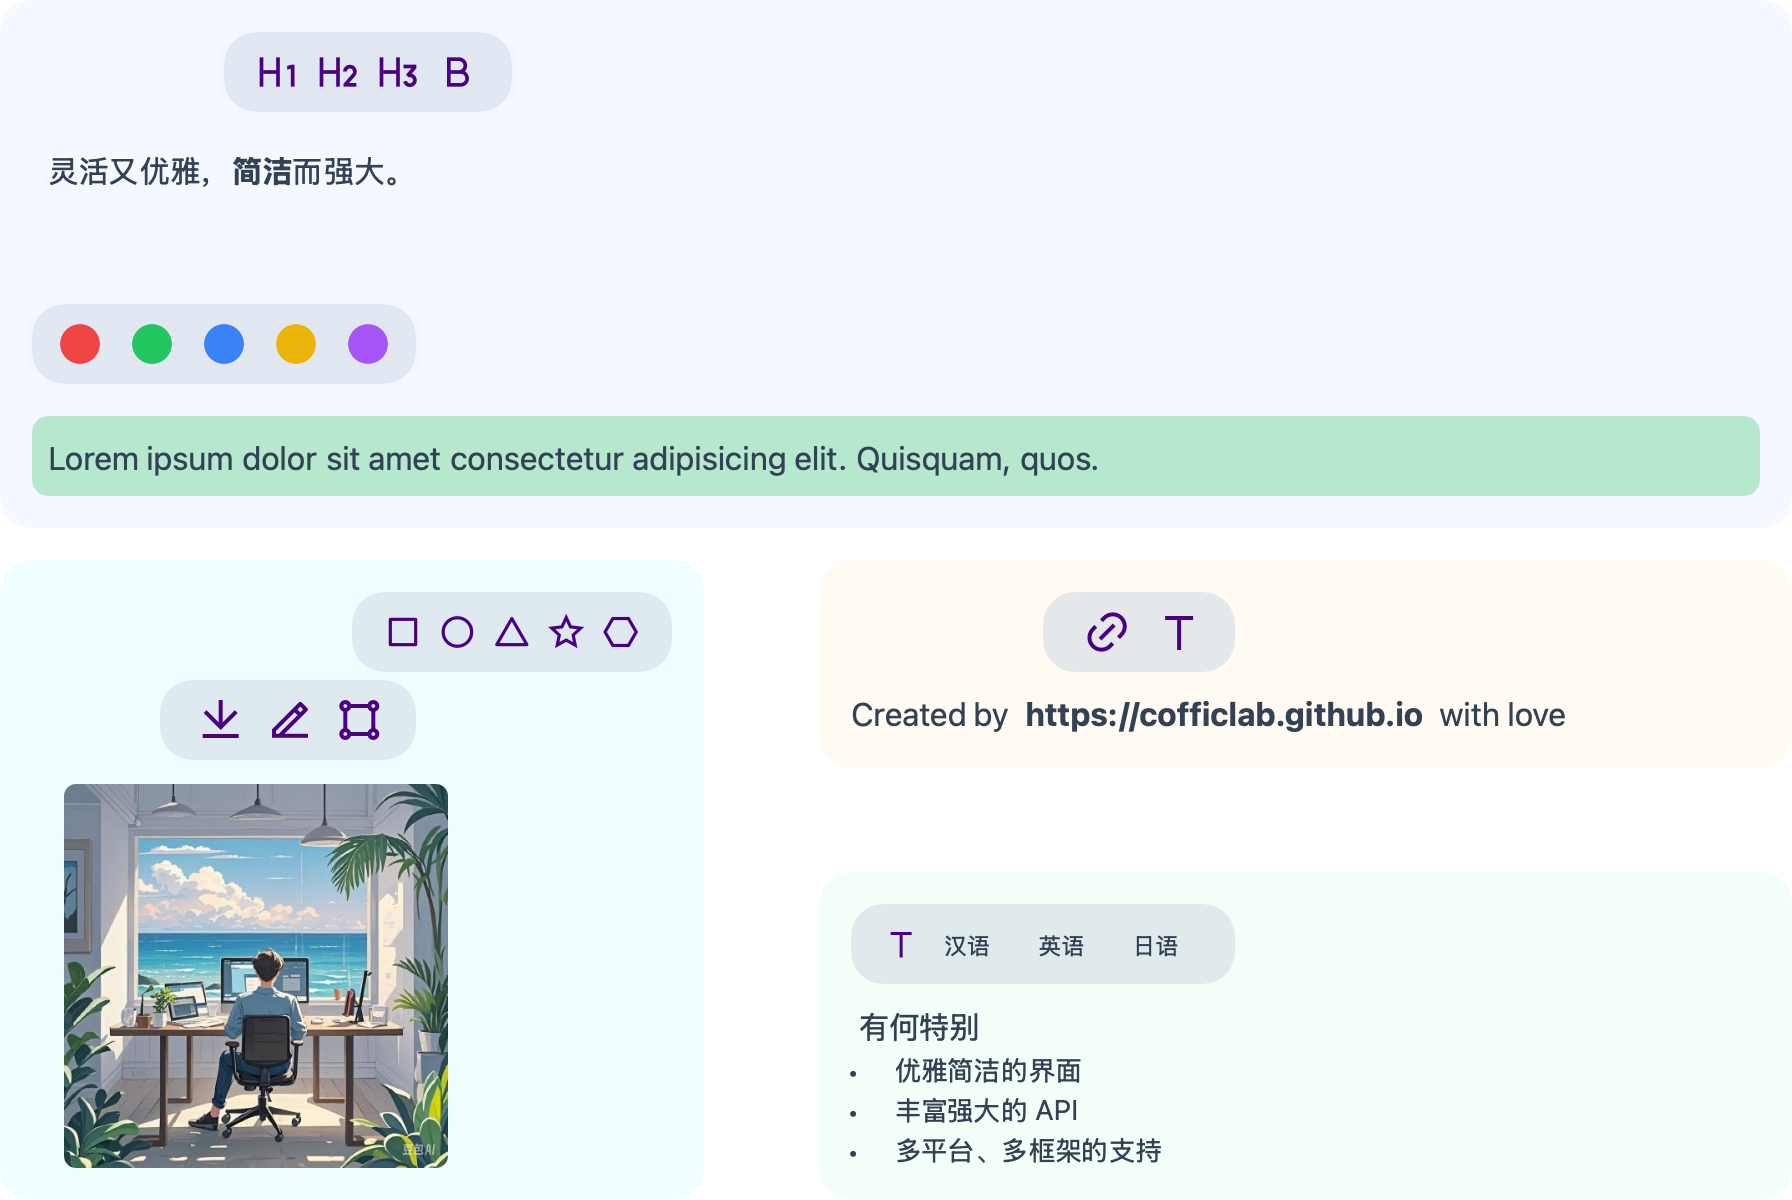
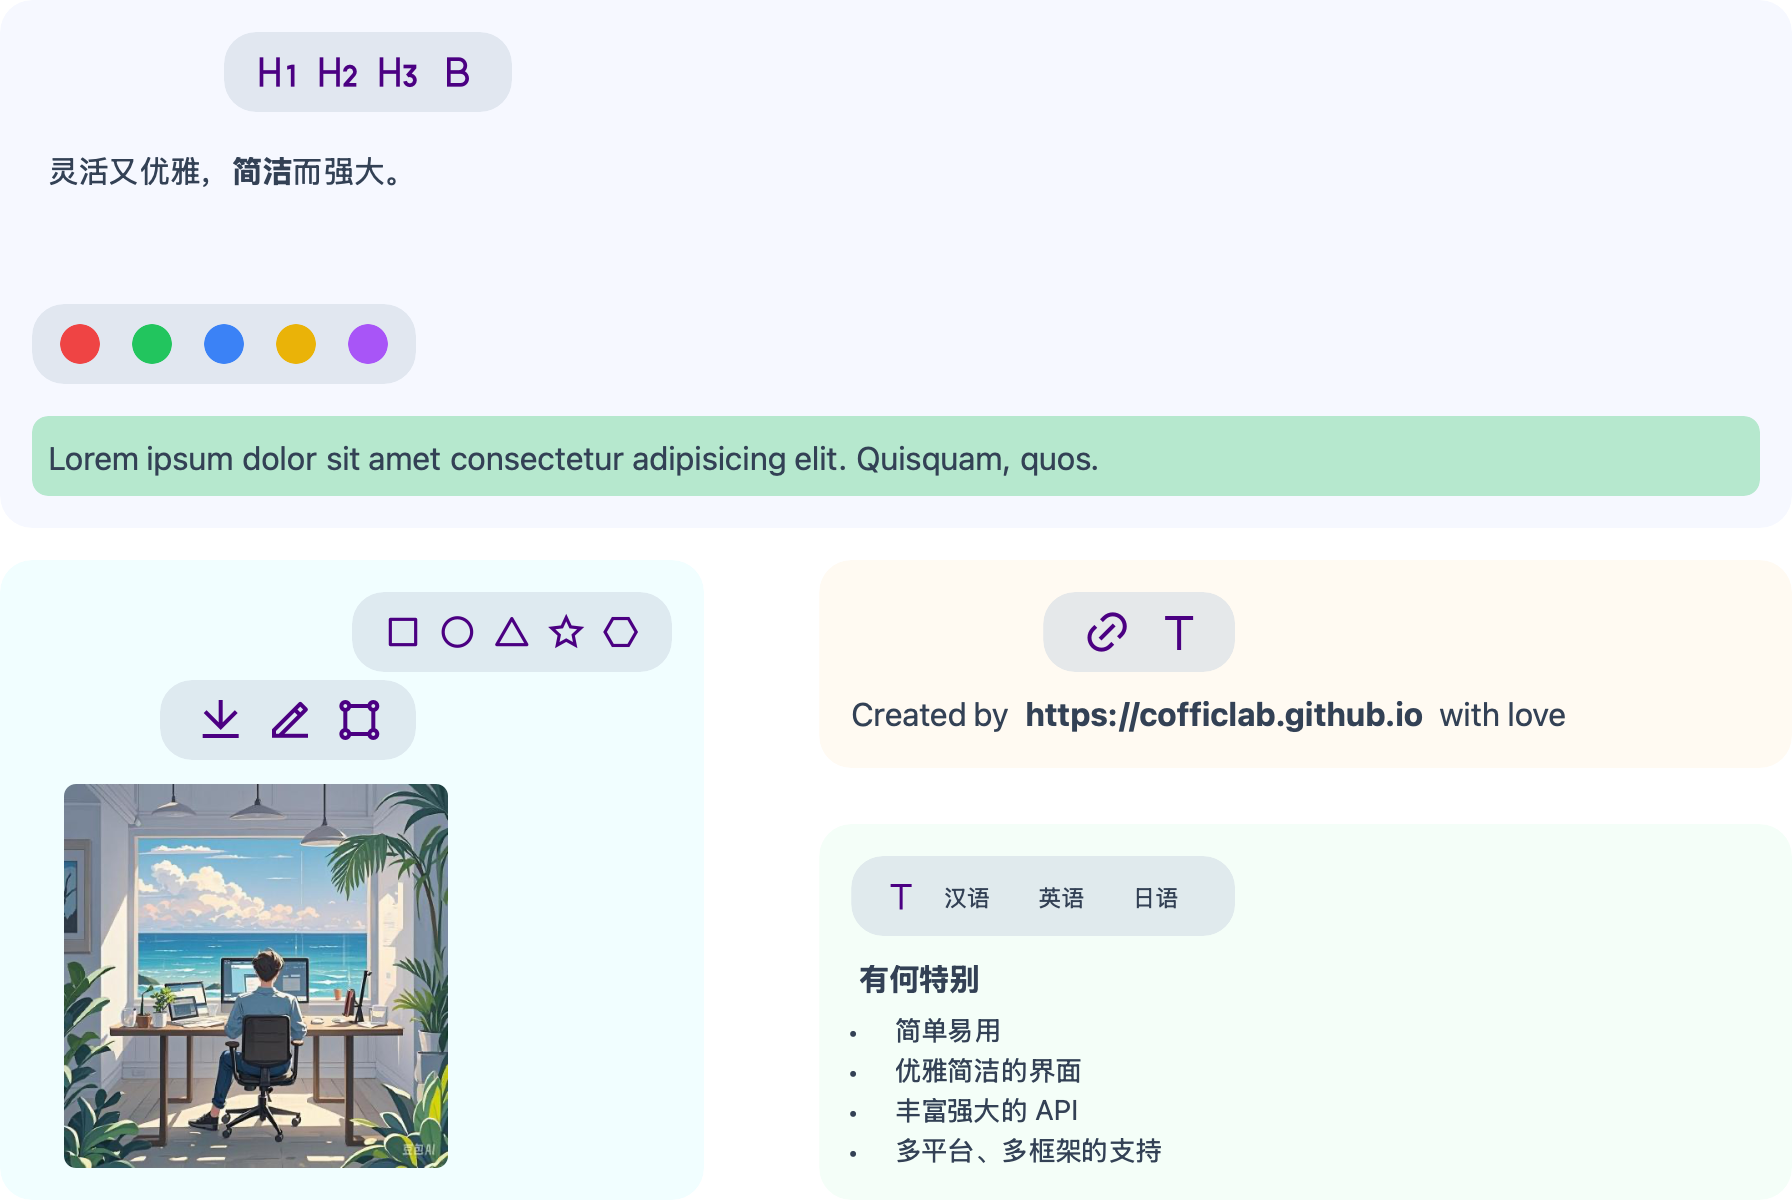
💄 UI:  Update user interface elements

Changed region(s): [[0.4688, 0.7092, 0.6875, 0.8633]]

diff --git a/src/pages/Features.vue b/src/pages/Features.vue
@@ -114,8 +114,9 @@ function downloadAsImage() {
                             <div v-for="language in languages" class="text-xs w-12 rounded-full p-1">{{ language }}
                             </div>
                         </div>
-                        <p class="mt-2"><span class="rounded-2xl p-1">有何特别</span></p>
-                        <ul class="list-disc list-inside ml-2 text-sm">
+                        <p class="mt-2"><span class="rounded-2xl p-1 font-bold">有何特别</span></p>
+                        <ul class="list-disc list-inside ml-2 text-sm mt-1">
+                            <li>简单易用</li>
                             <li>优雅简洁的界面</li>
                             <li>丰富强大的 API</li>
                             <li>多平台、多框架的支持</li>
